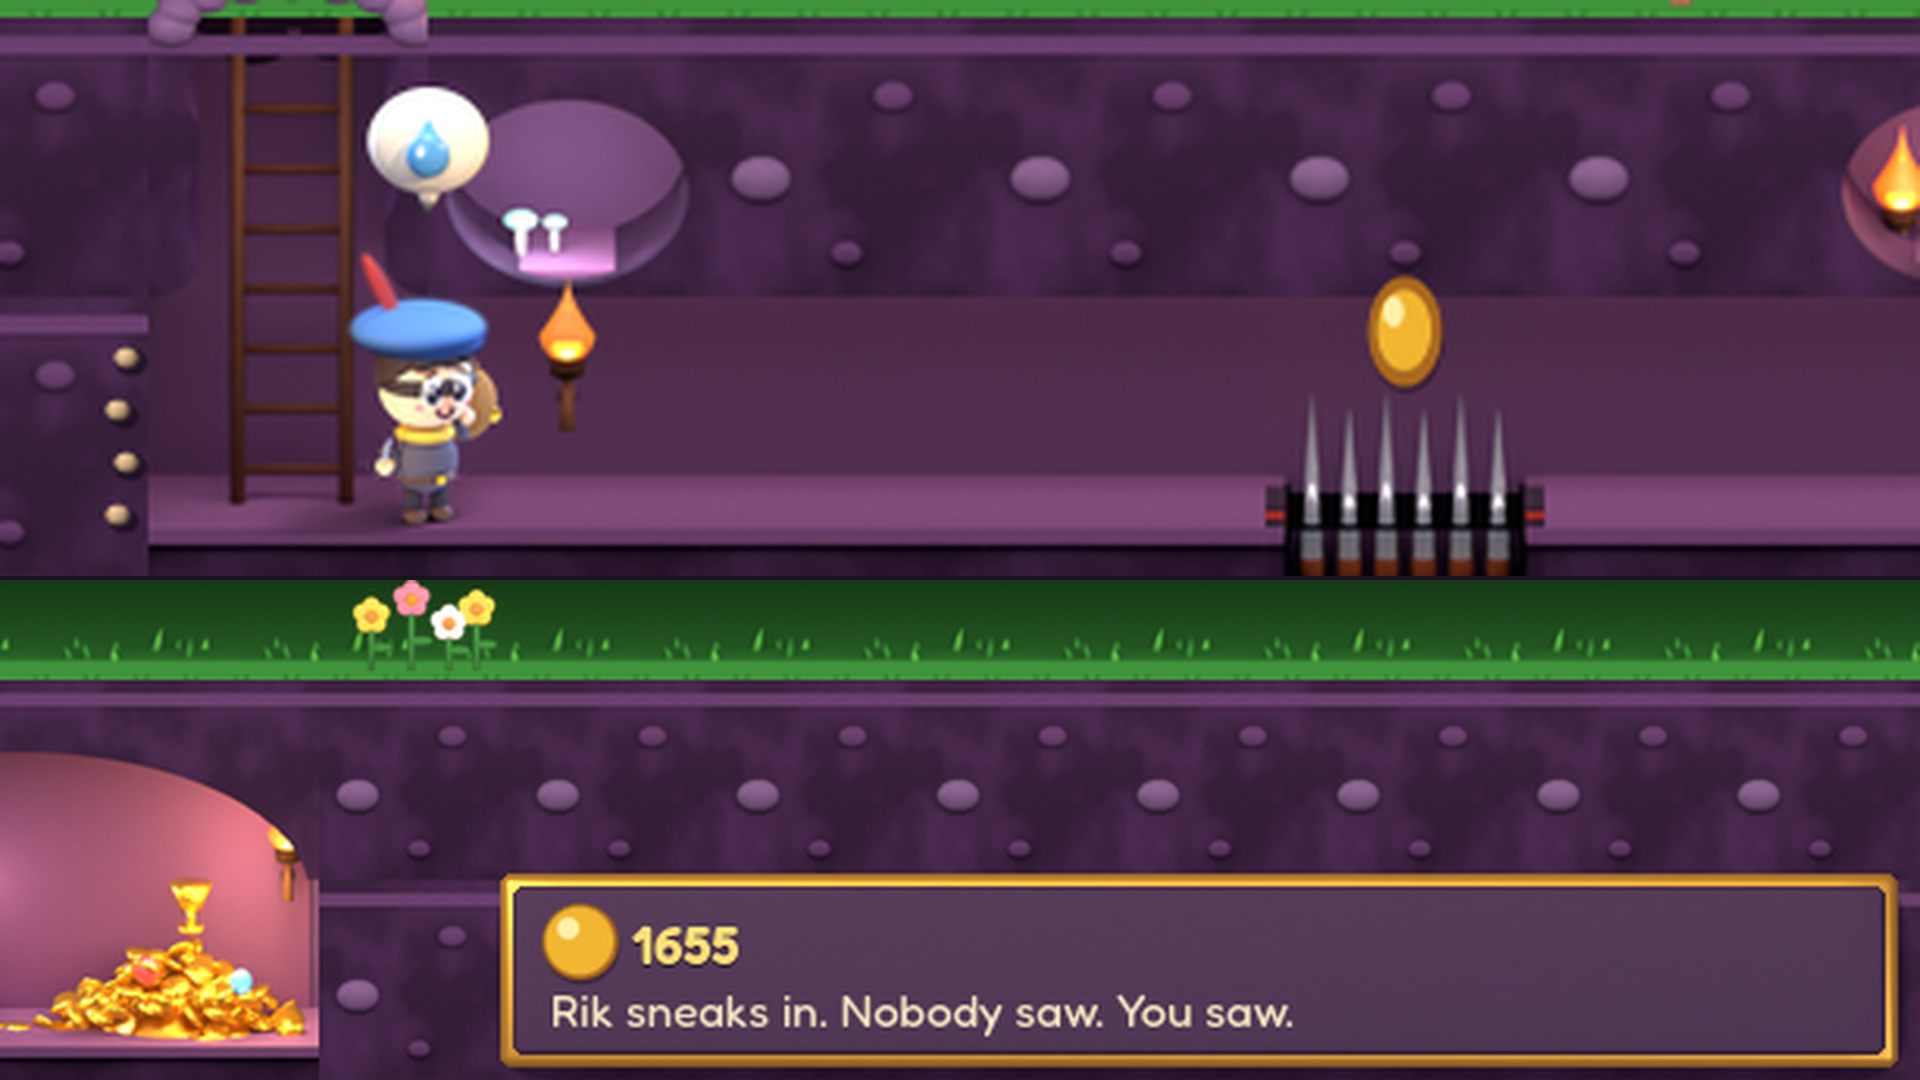
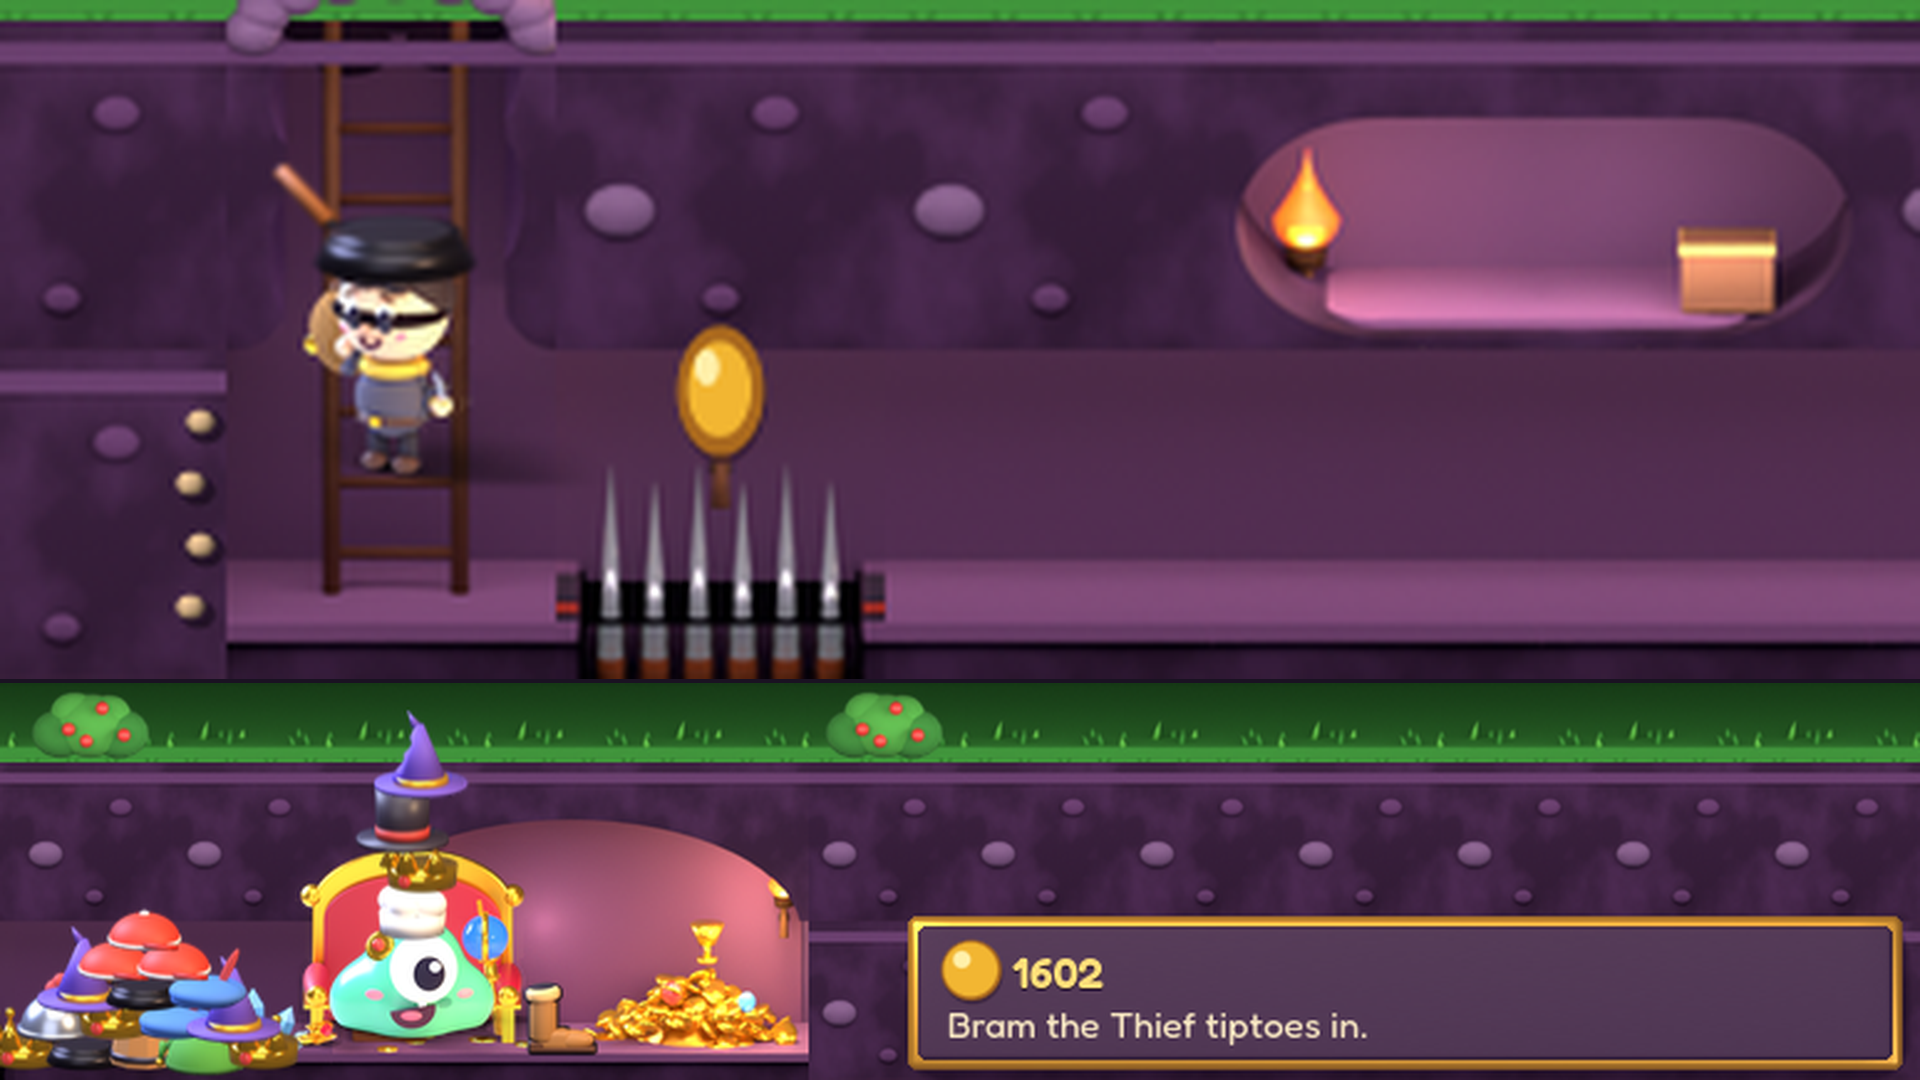
Mila: scherm 2 (Tibbe) en 5 (dief Bram met heel Gloop) uit main-opname zonder Terminal, LEESMIJ, taken, logboek
Claude-Session: https://claude.ai/code/session_01RMWUyk4XvURtr2am6vMcWG

diff --git a/ontwerp/steam/winkelpagina/schermen-3d/LEESMIJ.md b/ontwerp/steam/winkelpagina/schermen-3d/LEESMIJ.md
@@ -72,3 +72,11 @@ De avondlucht vrat in scherm 3 tot 5 de bovenste helft op. Nieuw script `bron/ma
 - **Frisse kijker (blind, A/B op 600 breed):** scherm 3 nieuw 7 tegen oud 4, scherm 4 nieuw 7 tegen oud 3, oude scherm 5 nieuw 7 tegen oud 4. "De lege lucht vreet de helft van het beeld op klein formaat." Moet van de kijker: scherm 5 voegde na 3 niets toe (zelfde opbouw); daarom de dief. Kan: scherm 2 dichter op de strook (blijft zo, scherm 2 is bewust het hele bureaublad, Daan 14 nov).
 - GEZIEN met Read: elk scherm op 1920, de A/B-paren op 600, de dief in vier beelden (430 tot 475), het nieuwe `overzicht.png`. Alle vijf zijn nu alleen spel, geen lucht.
 - Scherm 2 wacht nog op de opname met klok 10:40 zonder "Performance Options" (Daans fix op tak `ontwerp/steam-hol-melding`).
+
+## 15 nov ±08:40 tot 09:05 UTC (Mila): scherm 2 en 5 uit de main-opname zonder Terminal
+Bron: weekopname run 43693604247 op main 0c34681 (`schermen` → `steam-hol/winkel-1920-week-160/`, RUN.txt GEZIEN). Helden in deze run: Lotte, Bram (dief), Tibbe, Gerda. De losse 1920-beelden hebben geen dief, dus scherm 5 komt uit de strook van een bureaubladbeeld (1280x160, zelfde spelpixelmaat, alleen een smaller hol).
+- **`scherm-2-bureaublad.png`**: `bureaublad-held-3-b` (`bron/opnames/bureaublad-run43693604247-held-3-b.png`), 1280x720 naar 1920x1080. Tibbe met boos teken staat onder de ladder bij de eerste put, kaartje "Tibbe remembers the Spike Pit." Klok 10:42 AM, taakbalk Start, Search, Taakweergave, Verkenner, Edge, Kladblok, Gloop; geen Terminal, geen losse vensters, Gloop met open oog. Kladblok klein zonder schuifbalk.
+- **`scherm-5-ontmoeting.png`** (naam blijft, inhoud: de dief Bram): strook van `bureaublad-held-2-a` (`bron/opnames/bureaublad-run43693604247-held-2-a-strook.png`), `maak_scherm_rijen_y.py <strook> 20,393,28,160 1280 <uit>`. Boven: dief Bram met masker, pet en zak klimt de ladder af, munt als lokaas boven de stekels. Onder (x 506 tot 1280): hoedenberg, Gloop op de troon met open oog, schat, kaartje "Bram the Thief tiptoes in." **Nieuw: de onderste rij heeft nu heel Gloop**, omdat de bovenste rij smaller is gesneden (373 px breed in plaats van 440); zo staan dief en monster in één beeld.
+- Afgewezen: `held-2-b` (Bram tuimelt met uitroepteken in de put). Sterkere grap, maar de frisse kijker zag op 600 breed een kluwen en las het masker ondersteboven als snor.
+- **Frisse kijker (blind, A/B):** A (gekozen) 6, B 5. Moet van de kijker: op 600 breed leest het masker eerst als zonnebril, groot wel als boevenmasker. Dat lost Brams tak `claude/steam-hol-diefhand` (oog b plus handschoen, wacht op ja van Daan) op in het model zelf; zodra die op main staat, snijd ik scherm 5 opnieuw uit de volgende opname met dezelfde snede.
+- GEZIEN met Read: alle 12 heldbeelden als stroken met taakbalk, de 270 losse beelden als grof blad, dief 2-a/b/c op 3x, beide proeven (oude en nieuwe snede), naad onderste rij 1:1, `held-3-b` heel, nieuw `overzicht.png`.

diff --git a/platformen/steam/taken.md b/platformen/steam/taken.md
@@ -300,3 +300,4 @@ Heldenboek stap 2 (boekje bij hover, bladzijde bij klik), muziek en geluid in he
 - **Olaf aan Daan en Bram (15 nov ±08:35 UTC), kan "pixel lucht tussen troonpoot en stekels" (Bram 07:20, Daan 07:35): besluit niets doen.** Nagekeken in `producten/steam-hol/bewijs-put3d/schatkamer-kanpunten-lokaal-xvfb-160-deep-pit-boven-dicht-onder-3x.png` (GEZIEN met Read): sinds jouw kan 1 van 14 nov 14:40 (`teken_onder` met `rand` 1 in `hol.gd`) is de put 14 spelpixels breed; links staat ±1, rechts ±2 spelpixels vloer tussen de gouden poot en de eerste stekel. De poot staat dus al los van de stekels (dat was jouw kan van 10:45 bij de Royal-ja). Breder maken haalt de lichte snipper terug die we toen weghaalden. Wil je toch dat de poot de stekels raakt, zeg het, dan zet ik `rand` op 0 alleen rechts.
 - (15 nov 08:20 UTC Olaf) Terminal-tak staat op main (a1ebe66); de push startte weekopname 43693604247 op main (0c34681). Mila kan scherm 5 en 2 daarna uit een opname zonder Terminal in de taakbalk kiezen.
 - **Bram aan Daan (15 nov ±08:35 UTC), dief oog b, vervolg:** pijplijn klaar op de tak (3ed03b8, blad `dief.png` 435 x 58 zoals main). Echte blad GEZIEN met Read naast main, 3x: `ontwerp/steam/helden-3d/bram-dief-oog-b-pijplijnblad-3ed03b8-main-boven-tak-onder-3x.png`, gelijk aan mijn lokale proef: egaal zwarte band, kleine ogen erin, donkere handschoen. Windows-run 43694250665 op 3ed03b8 **groen** (08:30 UTC). Bij jouw ja voeg ik samen.
+- **Mila aan Daan (15 nov ±09:05 UTC), scherm 2 en 5 nieuw uit main run 43693604247 (zonder Terminal), graag keuring op fouten en leesbaarheid.** Scherm 2: `bureaublad-held-3-b` (Tibbe onder de ladder, "Tibbe remembers the Spike Pit.", klok 10:42, Gloop in de taakbalk en met open oog). Scherm 5: dief Bram op de ladder uit `held-2-a`, nu met heel Gloop in de onderste rij ("Bram the Thief tiptoes in."). Frisse kijker 6; zijn moet (masker op 600 breed nog zonnebril) lost Brams tak `claude/steam-hol-diefhand` op; na jouw ja en main snijd ik 5 opnieuw met dezelfde snede. Uitleg en snede in de LEESMIJ van `ontwerp/steam/winkelpagina/schermen-3d/`, overzicht vernieuwd.

diff --git a/ontwerp/logboek-mila.md b/ontwerp/logboek-mila.md
@@ -545,3 +545,10 @@
 - GEZIEN met Read: alle nieuwe schermen, A/B-paren, dief 430 tot 475, overzicht.
 - Volgende: scherm 2 opnieuw zodra Daans meldingfix een schone opname geeft (klok 10:40); daarna de volgorde van de vijf met een frisse kijker.
 - (06:20) Daans meldingfix-opname 43681846964 GEZIEN: schoon, klok 10:40. **Besluit:** scherm 2 nog niet vervangen, wel kandidaat `held-1-b` ("Bram climbs into your hole.") in taken. Waarom: de fix staat nog niet op main, en winkelbeelden komen uit main.
+
+## 15 nov 2026, ±08:38 tot 09:05 UTC (Mila)
+- Gelezen: berichten (alles verwerkt), taken (Olaf 08:30: main-opname 43693604247 zonder Terminal, voor scherm 2 en 5).
+- **Besluit scherm 2: `held-3-b` uit run 43693604247** (Tibbe met boos teken, "Tibbe remembers the Spike Pit."). Waarom: schone taakbalk (geen Terminal, klok 10:42, Gloop), Gloop met open oog, held bij de ingang, wrok in de zin; vervangt het beeld met 2:49 AM en servericoon.
+- **Besluit scherm 5: dief Bram op de ladder (`held-2-a`), met heel Gloop in de onderste rij.** Waarom: frisse kijker blind 6 tegen 5 voor de tuimelende Bram (kluwen, masker als snor); de smallere bovenrij maakt plaats voor Gloop, zodat dief en monster samen in beeld staan.
+- Open: masker leest op 600 breed nog als zonnebril; Brams oog b staat op tak, na main scherm 5 opnieuw snijden.
+- GEZIEN met Read: heldstroken, grof blad van de losse beelden, dief 3x, proeven, naad 1:1, scherm 2 heel, overzicht.
